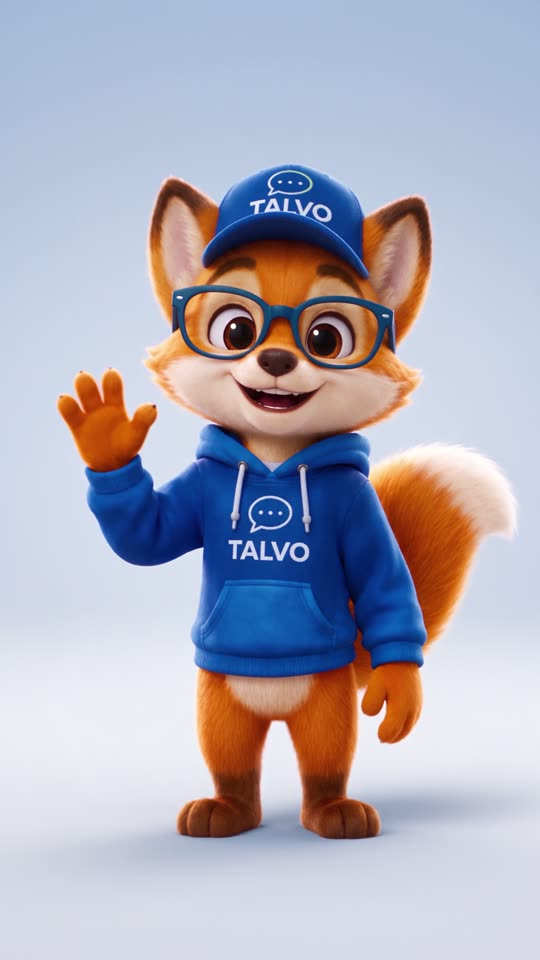
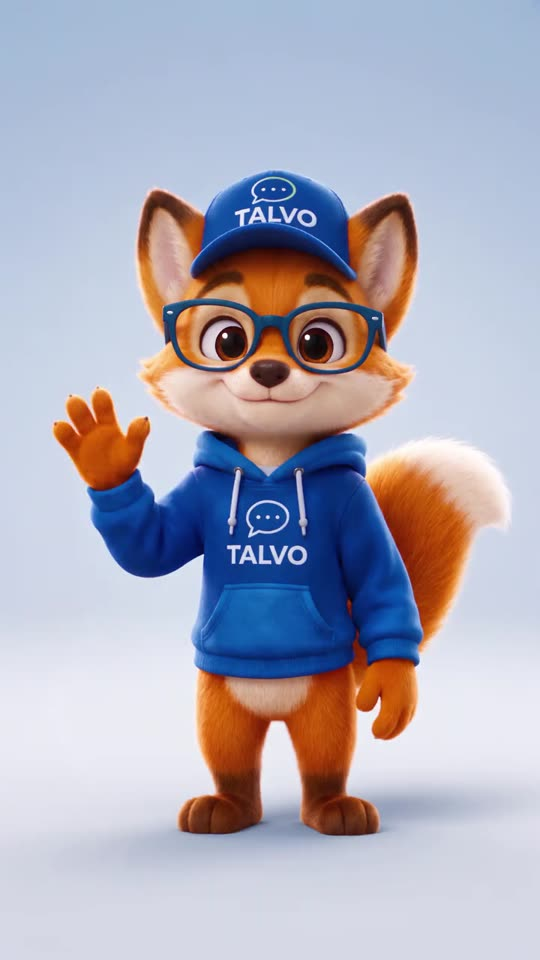
Launch: no fox still before the video; video starts straight away
The launch screen showed the old fox picture until the app had loaded, then the
video. It now shows the video's own first frame at once and starts playing
without waiting for the app to finish loading.

Claude-Session: https://claude.ai/code/session_01K6h1YfQkLWeZQfJBc8cHxZ

diff --git a/web/public/index.html b/web/public/index.html
@@ -27,11 +27,10 @@
   <link rel="stylesheet" href="/styles.css">
 </head>
 <body>
-  <!-- A still of TALVO the fox while the app opens, then the welcome video (with sound) every time, with a Skip button.
+  <!-- The welcome video, every time the app opens, with a Skip button. Its first frame shows at once.
        In the page itself so it shows at once; app.js plays the video and removes all of it. -->
   <div id="launch" style="position:fixed;inset:0;z-index:50;background:#abcbf9;display:grid;place-items:center;transition:opacity .4s">
-    <img id="launch-fox" src="/img/talvo-fox.jpg" alt="" style="width:min(70vw,50vh,420px);height:auto;display:block">
-    <video id="launch-video" playsinline preload="auto" poster="/img/welcome-poster.jpg" hidden><source src="/img/welcome.mp4" type="video/mp4"></video>
+    <video id="launch-video" playsinline preload="auto" poster="/img/welcome-poster.jpg"><source src="/img/welcome.mp4" type="video/mp4"></video>
     <button id="launch-sound" class="launch-btn launch-sound" type="button" hidden>Tap for sound</button>
     <button id="launch-skip" class="launch-btn launch-skip" type="button" hidden>Skip</button>
   </div>

diff --git a/web/public/app.js b/web/public/app.js
@@ -638,7 +638,7 @@ async function showWelcomeVideo() {
   v.addEventListener('ended', hideLaunch);
   v.addEventListener('error', hideLaunch);
   skip.onclick = hideLaunch;
-  const show = () => { document.getElementById('launch-fox').hidden = true; v.hidden = false; skip.hidden = false; };
+  const show = () => { skip.hidden = false; };
   try { await v.play(); show(); return; } catch { /* sound not allowed yet: try silent */ }
   v.muted = true;
   try {
@@ -646,4 +646,6 @@ async function showWelcomeVideo() {
     sound.onclick = () => { v.muted = false; v.currentTime = 0; sound.hidden = true; v.play().catch(hideLaunch); };
   } catch { hideLaunch(); }
 }
-Promise.all([boot().catch(() => {}), new Promise((r) => setTimeout(r, Math.max(0, 1200 - performance.now())))]).then(showWelcomeVideo);
+// The video starts straight away (its first frame is already on screen) while the app loads behind it.
+showWelcomeVideo();
+boot().catch(() => {});
